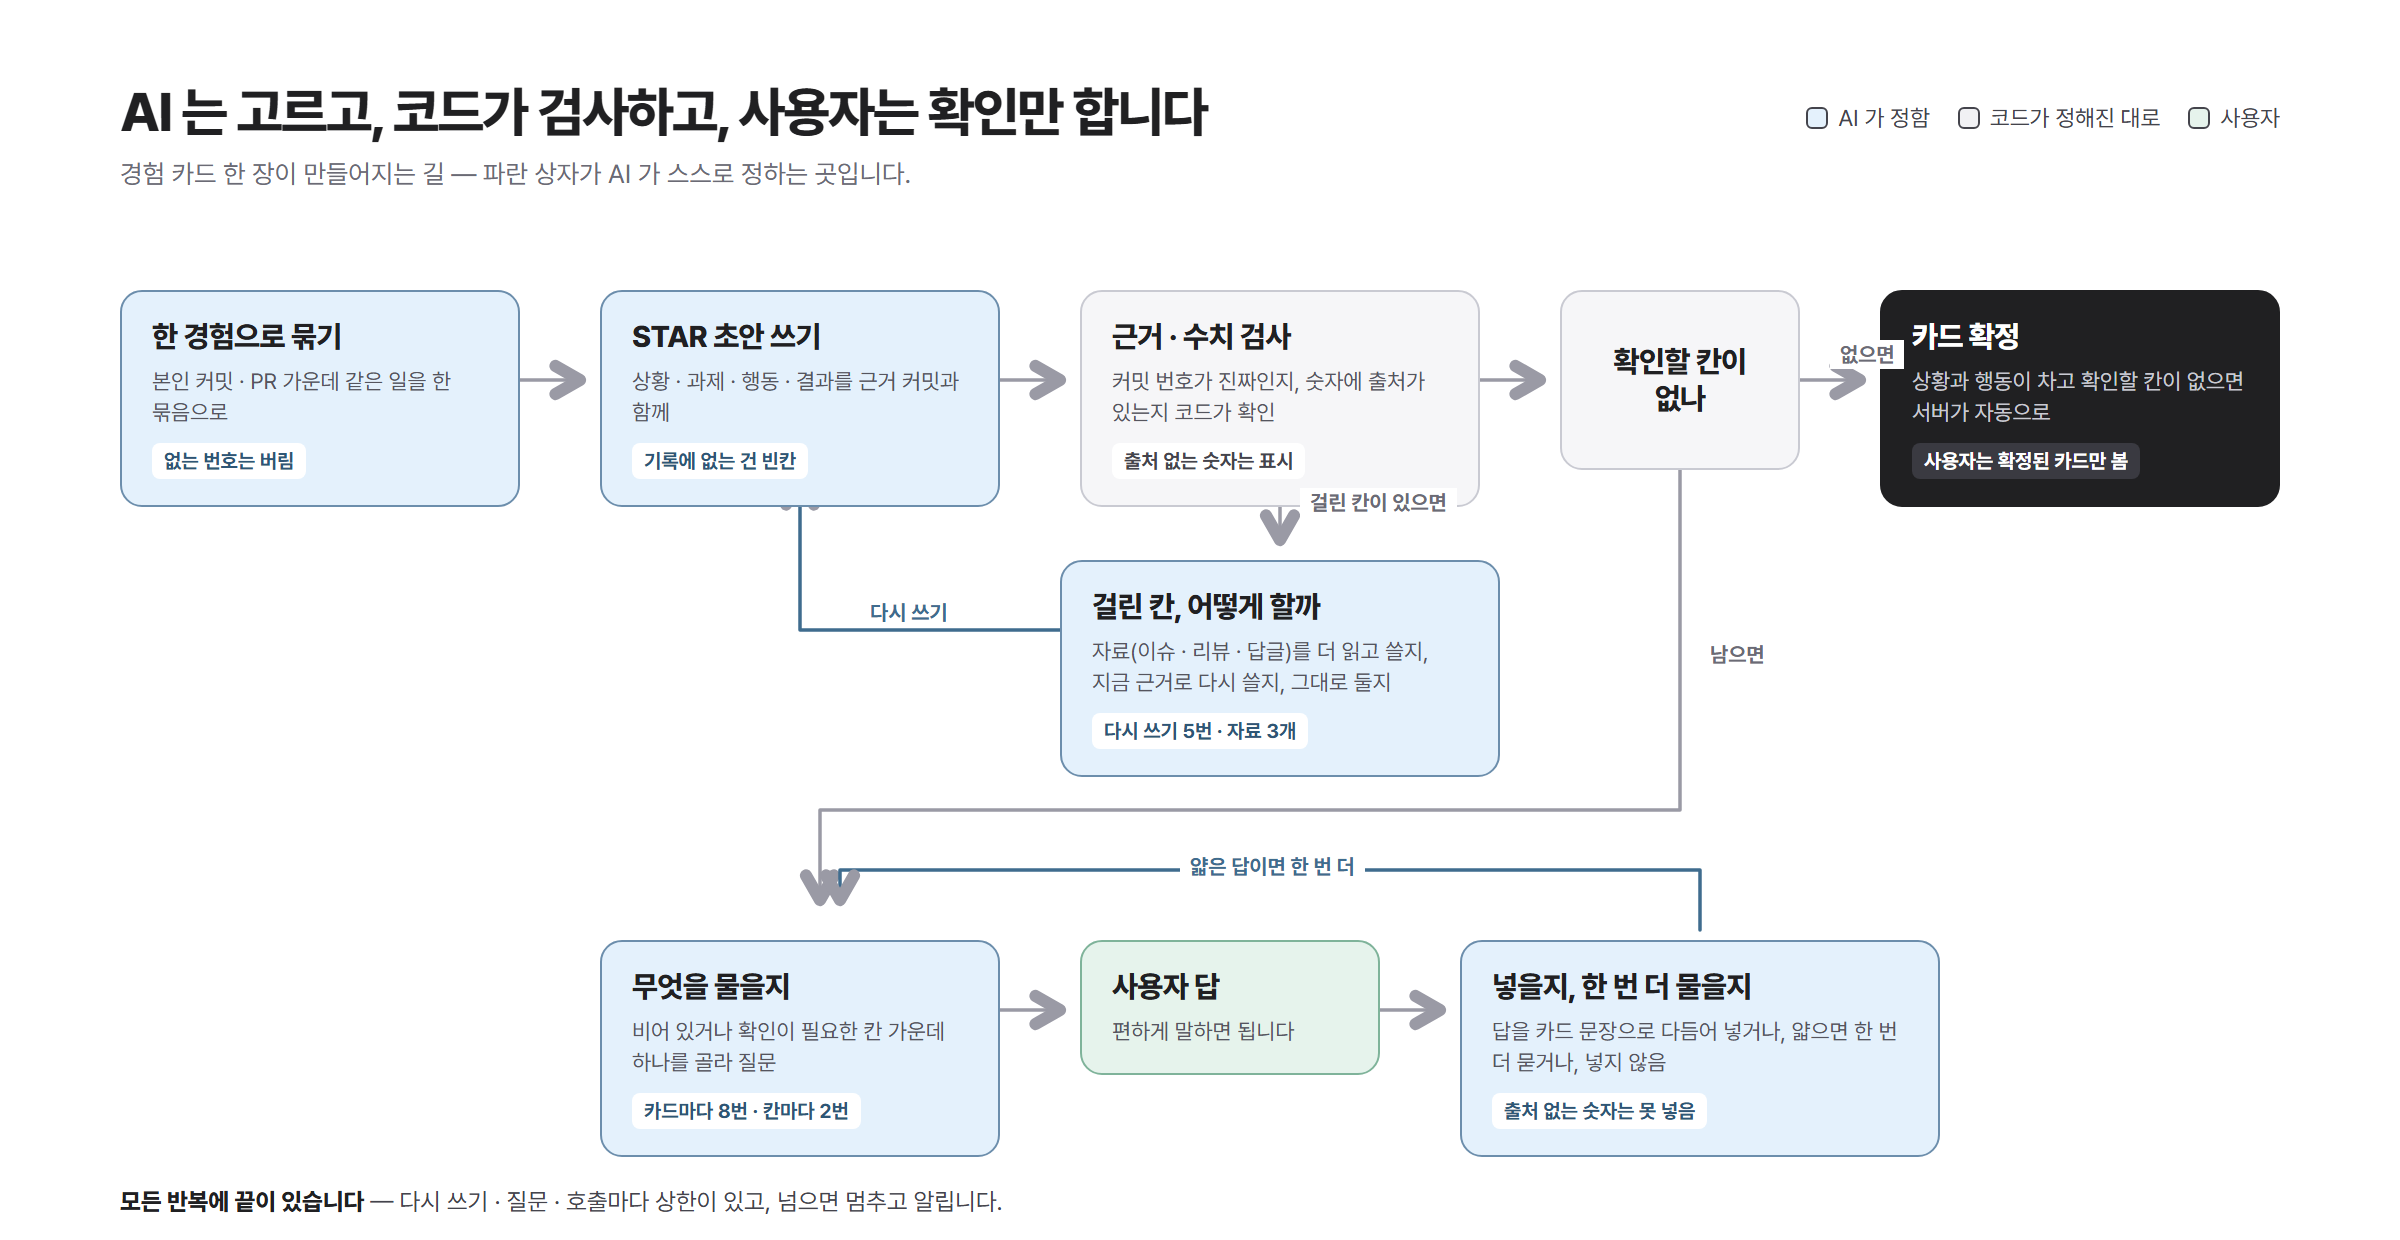
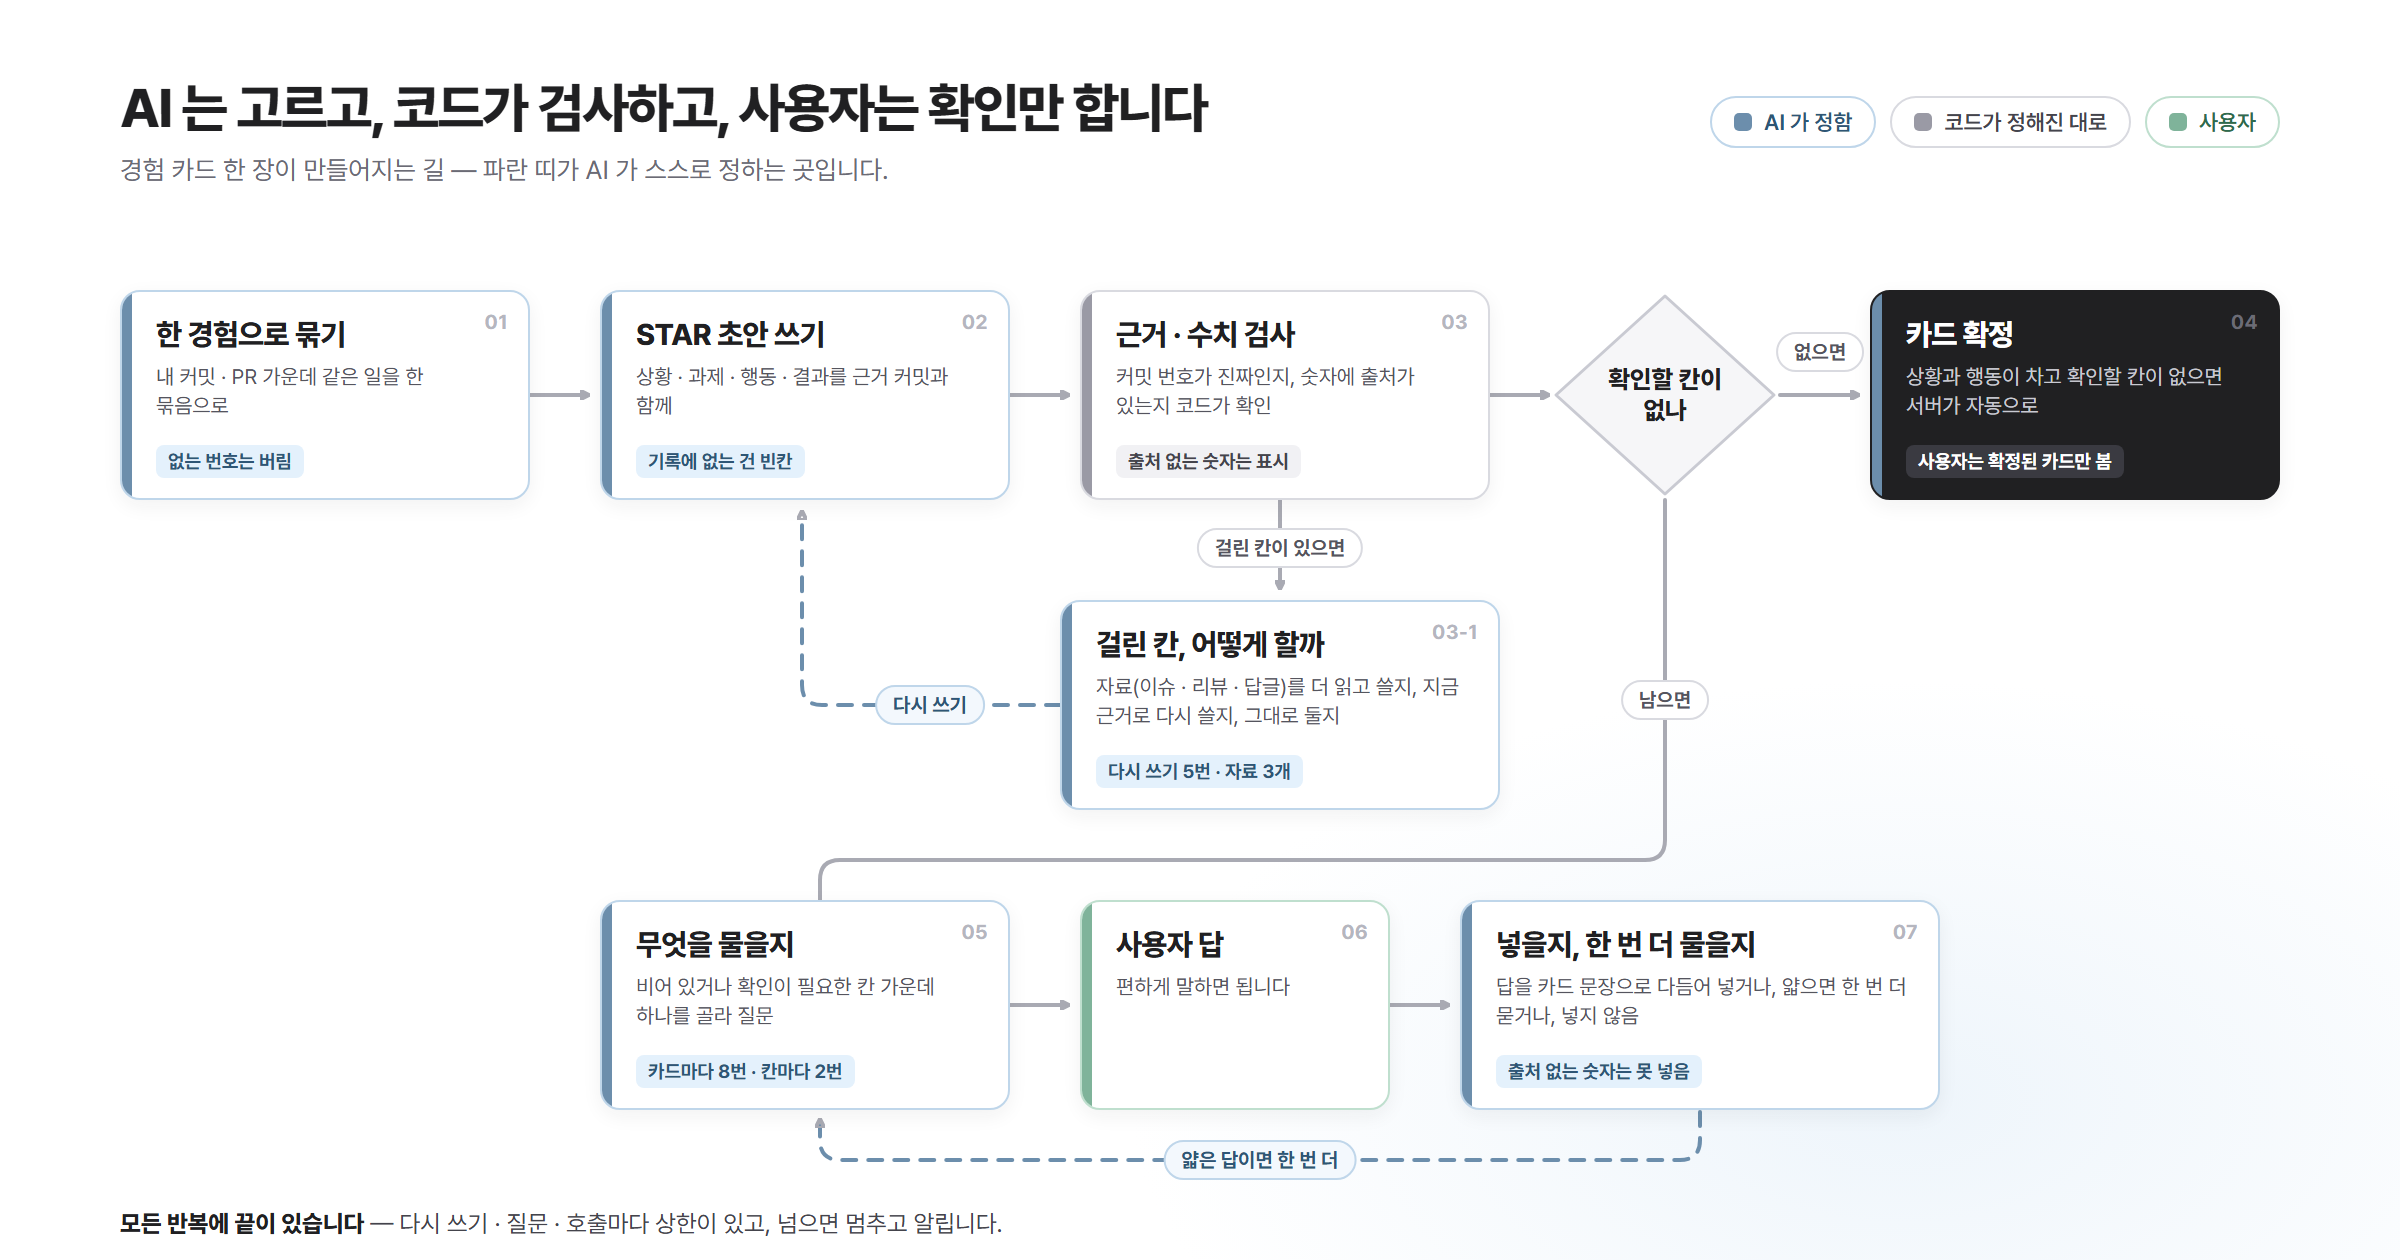
docs: README 의 AI 판단 길 그림을 화살표와 상자를 정돈해 다시 그림

diff --git a/docs/images/readme/README.md b/docs/images/readme/README.md
@@ -38,7 +38,7 @@
 ## 소개 이미지 · 흐름 그림 · 움직이는 화면 (2026-11-11)
 
 - `hero.png`(2400 × 1200): HTML 로 구성해 Playwright 로 그린 그림이다. 화면은 첫 화면이 쓰는 제품 그림(`frontend/public/landing/*.png`)을 브라우저 틀에 담았다. 원본 HTML 은 저장소에 두지 않았다.
-- `flow.png`(2400 × 1000) · `ai-loop.png`(2400 × 1240) · `deploy.png`(2400 × 500): 네 걸음 흐름 · AI 판단 길 · 배포 길을 같은 방식(HTML → Playwright)으로 그린 그림이다. Mermaid 대신 쓴다 — 숫자(다시 쓰기 5번 등)는 `docs/AGENT_DESIGN.md` 의 상한과 같아야 하고, 상한이 바뀌면 그림도 다시 그린다.
+- `flow.png`(2400 × 1000) · `ai-loop.png`(2400 × 1260) · `deploy.png`(2400 × 500): 네 걸음 흐름 · AI 판단 길 · 배포 길을 같은 방식(HTML → Playwright)으로 그린 그림이다. Mermaid 대신 쓴다 — 숫자(다시 쓰기 5번 등)는 `docs/AGENT_DESIGN.md` 의 상한과 같아야 하고, 상한이 바뀌면 그림도 다시 그린다.
 - `gif/*.gif`(1280 × 800, 초당 12장, 여섯 개 합쳐 3MB 안팎): 로그인 없이 쓰는 **샘플 데이터(목 서버)** 화면을 Chrome DevTools 스크린캐스트(브라우저가 그리는 프레임 그대로)로 받아 Pillow 로 초당 12장에 맞춰 이었다. 팔레트 하나를 같이 쓰고 바뀐 부분만 저장해 작다. 샘플 데이터라 글 내용은 예시이고, 레포 정리는 PR 이 있는 샘플 레포(web-client)로 찍었다. 찍을 때만 샘플 사용자를 @Grow22 계정(이름 · GitHub 아바타)으로, 샘플 기업 이름과 로고를 실제 회사(GitHub 조직 아바타)로 바꿔 실제 화면처럼 보이게 했고 저장소의 샘플 데이터는 그대로다. 재생은 실제보다 1.3배 느리게 해서 글이 써지는 모습이 보이게 했다. 2026-11-11 두 번째 판은 기능마다 끝나는 장면까지(14~34초) 찍었고, 세 번째 판에서 레포 정리는 샘플 정리 시간을 36초로 늘려(저장소의 `ANALYZE_SEC` 는 9초 그대로) 네 단계가 각각 보이게, 맞는 기업 고르기는 8곳을 다 확인하고 3곳을 고르는 데까지 실제 속도로 찍었고, 루트 README 는 기능마다 GIF 하나만 쓰며 정적 캡처(`01-home.png` 등)는 파트 README 와 이 기록에서만 가리킨다.
 
 | 파일 | 화면 | 길이 |
